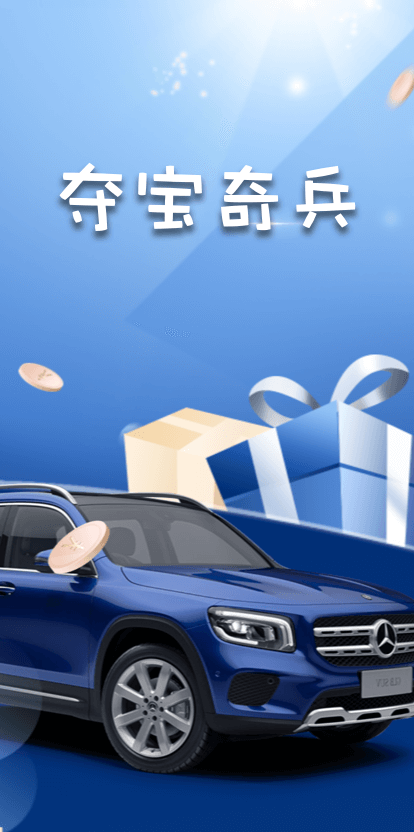
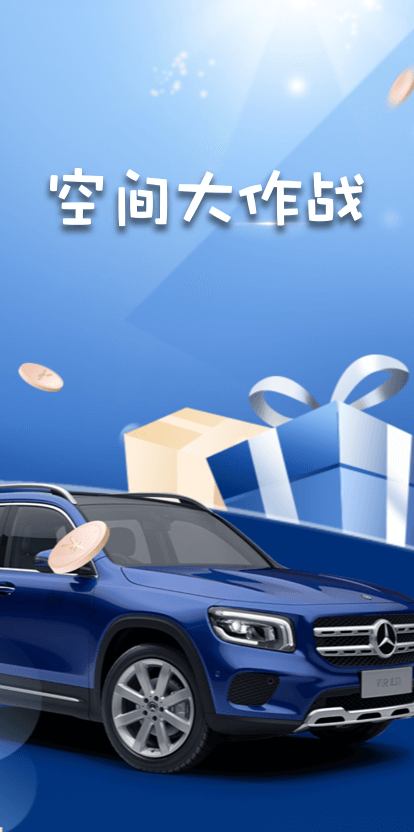
fix: 修复循环调用

Changed region(s): [[0.1159, 0.1875, 0.8986, 0.3125]]

diff --git a/webpack.config.js b/webpack.config.js
@@ -1,14 +1,10 @@
 var path = require('path')
 var HtmlWebpackPlugin = require('html-webpack-plugin')
 const MiniCssExtractPlugin = require('mini-css-extract-plugin')
+const { CleanWebpackPlugin } = require('clean-webpack-plugin')
 
 // const marked = require('marked')
 // const renderer = new marked.Renderer()
-
-var HtmlWebpackPluginEntry = new HtmlWebpackPlugin({
-  title: 'demo',
-  template: path.join(__dirname, 'index.html'),
-})
 
 const isDevelopment = true
 
@@ -94,7 +90,11 @@ module.exports = {
     },
   },
   plugins: [
-    HtmlWebpackPluginEntry,
+    new CleanWebpackPlugin(),
+    new HtmlWebpackPlugin({
+      title: 'demo',
+      template: path.join(__dirname, 'index.html'),
+    }),
     new MiniCssExtractPlugin({
       filename: isDevelopment ? '[name].css' : '[name].[hash].css',
       chunkFilename: isDevelopment ? '[id].css' : '[id].[hash].css',

diff --git a/src/pages/HomePage/sort.jsx b/src/pages/HomePage/sort.jsx
@@ -7,10 +7,10 @@ import p_history from '@images/p_history.png'
 import ic_close from '@images/ic_close.png'
 
 export default function Sort(props) {
-  const [data, setData] = useState([])
+  const [data, setData] = useState(null)
 
   useEffect(() => {
-    if (data.length === 0) {
+    if (!data) {
       getTopList()
         .then(({ data: { data, code } }) => {
           if (code === '000') {
@@ -34,7 +34,7 @@ export default function Sort(props) {
         }}
       >
         <div style={styles.historyBg}>
-          <ScoreList data={data}></ScoreList>
+          <ScoreList data={data || []}></ScoreList>
         </div>
         <div style={styles.buttonArray}>
           <div

diff --git a/src/pages/HomePage/GameScene.js b/src/pages/HomePage/GameScene.js
@@ -84,7 +84,7 @@ export default function GameScene(props) {
         var title = game.add.text(
           game.world.centerX,
           game.world.height * 0.25,
-          '夺宝奇兵',
+          '空间大作战',
           {
             fontSize: '40px',
             fontWeight: 'bold',

diff --git a/src/pages/HomePage/index.jsx b/src/pages/HomePage/index.jsx
@@ -180,6 +180,7 @@ const styles = {
     width: 65,
     height: 65,
     border: 'none',
+    marginTop: 10,
     backgroundSize: 'contain',
     backgroundImage: `url(${ic_close})`,
     backgroundColor: 'transparent',
